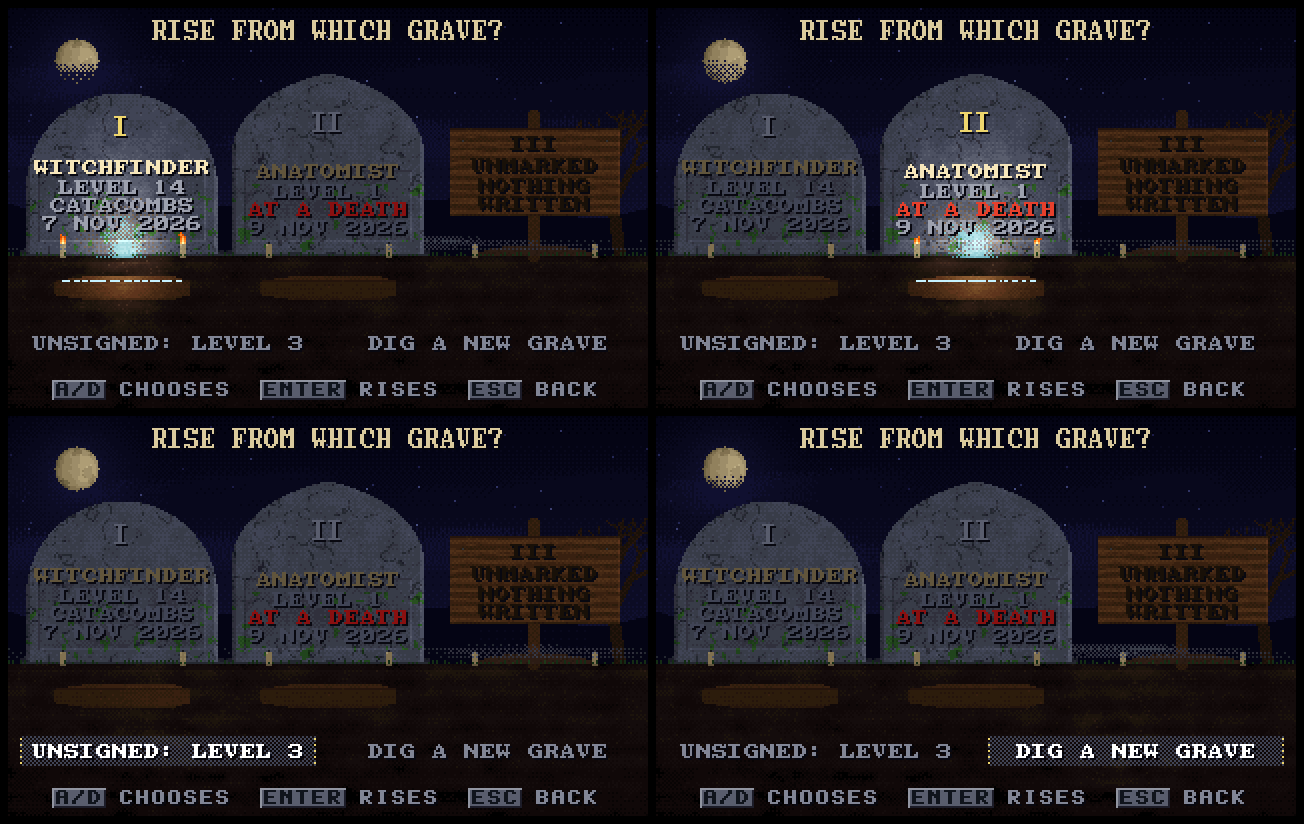
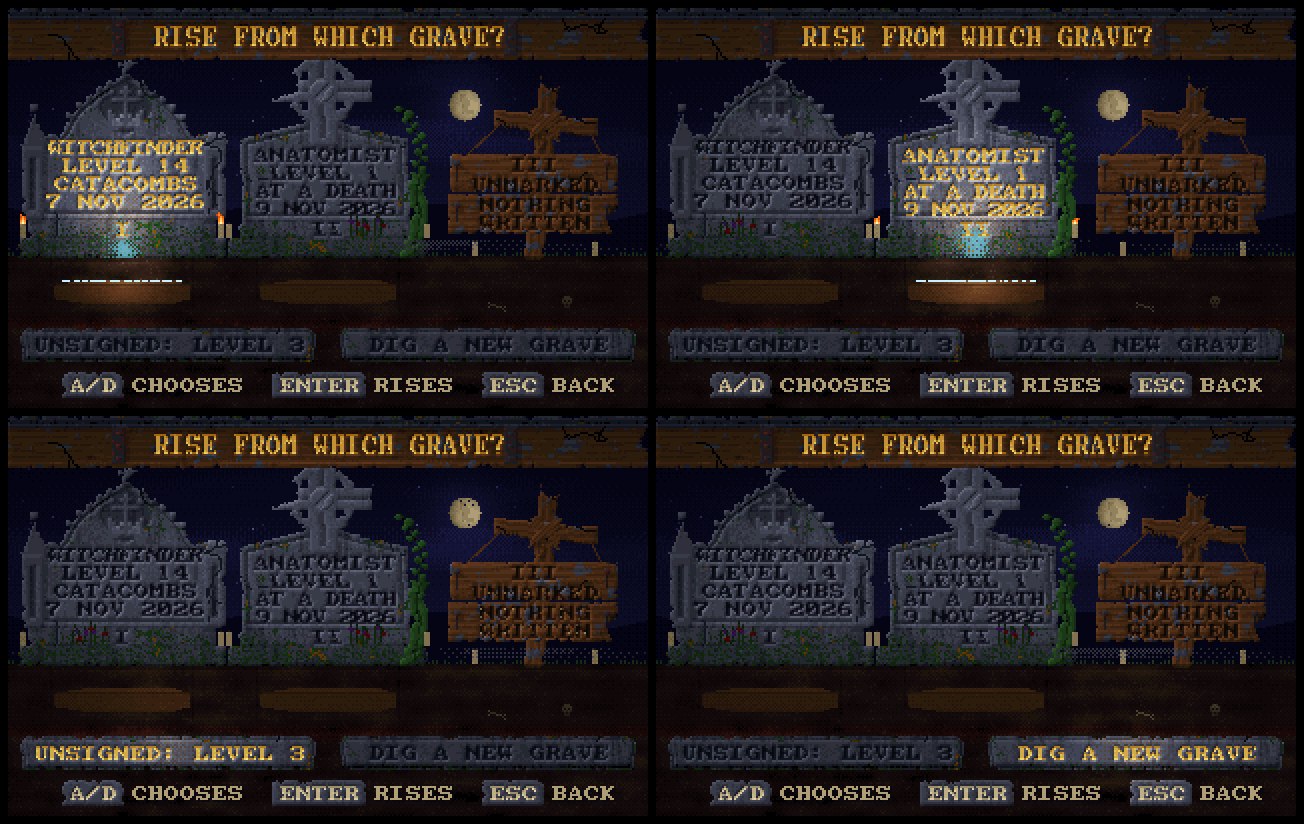
Title mock-ups: C's stone rebuilt, and the refinement pass's stills
C's great stone is built with the kit: a double moulding, a winged death's
head, volutes, a shoulder snapped off with its pieces at its foot, ivy, and
MEMENTO MORI on the plinth. The hand has a torn cuff and its knuckles showing,
and the scene has railings, a mausoleum, fallen leaves, dead flowers and dark
grass in the foreground. docs/titlepass holds the stills from the pass, its
parts sheet and a rewritten README. Steps 7 and 8 of docs/PLAN-title.md.

Claude-Session: https://claude.ai/code/session_015ifzKswxCgherngMdFdFzs

diff --git a/tools/titlemock.c b/tools/titlemock.c
@@ -590,26 +590,6 @@ static void mline(float x0, float y0, float x1, float y1, float w, int ramp, flo
 }
 static void mrect(int x, int y, int w, int h, int ramp, float v, int flags) { for (int j = 0; j < h; j++) for (int i = 0; i < w; i++) matf(x + i, y + j, ramp, v, flags); }
 
-/* a headstone seen from the side of the plot: shape 0 rounded, 1 a cross, 2 pointed, 3 broken; lit from the moon's side */
-static void small_stone(int cx, int base, int w, int h, int shape, float lean, float lit_right, uint32_t seed) {
-    for (int y = base - h; y < base; y++) for (int x = cx - w / 2 - 3; x <= cx + w / 2 + 3; x++) {
-        float fy = (float)(base - y) / h, fx = x - cx - lean * (base - y);
-        int in = 0;
-        float hw = w * 0.5f;
-        if (shape == 0) { float r = hw, top = h - r; in = fabsf(fx) <= hw && ((base - y) <= top || fx * fx + ((base - y) - top) * ((base - y) - top) <= r * r); }
-        else if (shape == 1) { in = (fabsf(fx) <= hw * 0.35f) || (fabsf(fx) <= hw && fy > 0.62f && fy < 0.8f); }
-        else if (shape == 2) { in = fabsf(fx) <= hw * (fy < 0.7f ? 1 : (1 - fy) / 0.3f); }
-        else { in = fabsf(fx) <= hw && fy < 0.75f - 0.35f * (fx / hw + 1) * 0.5f + 0.1f * (h01(x, 0, seed) - 0.5f); }
-        if (!in) continue;
-        float v = 0.34f + 0.16f * fbm(x * 0.3f, y * 0.3f, seed) + lit_right * 0.22f * (fx / hw);
-        int edge_r = 0;
-        if (fx > hw - 1.5f) edge_r = 1;
-        if (edge_r) v += 0.18f * lit_right;
-        if (fx < -hw + 1.2f) v -= 0.12f;
-        int moss = fbm(x * 0.5f, y * 0.5f, seed + 5) > 0.66f && fy < 0.5f;
-        matf(x, y, moss ? R_MOSS : R_STONE, v, 0);
-    }
-}
 
 /* a dead tree: a trunk and its branches, forked again and again */
 static void branch(float x, float y, float ang, float len, float w, int depth, uint32_t seed) {
@@ -1504,61 +1484,7 @@ static float sel_k(float t, int k) {                     /* how chosen k is: com
     if (u < 0 || u > per + 0.35f) return 0;
     return smooth(0, 0.35f, u) * (1 - smooth(per, per + 0.35f, u));
 }
-static void text_c(int cx, int y, const char *s, int col) { ui_text8(&F, cx - (int)strlen(s) * 4, y, s, FACE_INSC, col, TX_INLAID); }
-static void text16_c(int cx, int y, const char *s, int col) { ui_text16(&F, cx - (int)strlen(s) * 4, y, s, FACE_INSC, col, TX_INLAID, 1); }
-static void hints(int y, const char *s) { ui_keys(&F, (W - ui_keys_width(s)) / 2, y, s, R_STONE + 11); }
 
-/* a great headstone: shape 0 round-topped, 1 a pointed gothic arch; a moulded edge, a sunk panel for the words */
-static void big_stone(int cx, int base, int w, int h, int shape, uint32_t seed) {
-    int x0 = cx - w / 2;
-    for (int y = base - h; y < base; y++) for (int x = x0; x < x0 + w; x++) {
-        int i = x - x0, j = y - (base - h);
-        int in;
-        if (shape == 0) { float r = w * 0.5f, cyy = r; in = j >= cyy || ((i - r + 0.5f) * (i - r + 0.5f) + (j - cyy) * (j - cyy) <= r * r); }
-        else {                                                          /* a drop arch: two arcs meeting at a point */
-            float R = w * 0.75f, sq = 0.6f, spring = sqrtf(R * R - (w * 0.25f) * (w * 0.25f)) * sq, px = i + 0.5f, py = j;
-            float d1 = (px - (w - R)) * (px - (w - R)) + (py - spring) * (py - spring) / (sq * sq), d2 = (px - R) * (px - R) + (py - spring) * (py - spring) / (sq * sq);
-            in = j >= spring || (d1 <= R * R && d2 <= R * R);
-        }
-        if (!in) continue;
-        float v = 0.38f + 0.18f * fbm(x * 0.12f, y * 0.12f, seed) + 0.05f * (h01(x, y, seed) - 0.5f);
-        /* the edge: lit on the right (the moon), shadowed left */
-        int e = 0;
-        for (int d = 1; d <= 3 && !e; d++) {
-            int ii = i - d, jj = j;
-            (void)ii; (void)jj;
-            if (x - d < x0 || x + d >= x0 + w) e = d;
-        }
-        if (i < 2) v -= 0.14f; else if (i > w - 3) v += 0.16f;
-        /* the sunk panel */
-        int pj0 = shape == 0 ? (int)(w * 0.42f) : (int)(w * 0.52f), pj1 = h - 8;
-        if (j >= pj0 && j <= pj1 && i >= 6 && i <= w - 7) {
-            if (j == pj0 || i == 6) v -= 0.14f;
-            else if (j == pj1 || i == w - 7) v += 0.1f;
-            else v -= 0.05f;
-        }
-        int moss = fbm(x * 0.25f, y * 0.25f, seed + 9) > 0.68f && j > h * 0.6f;
-        int crack = fabsf(fbm(x * 0.07f, y * 0.07f, seed + 3) - 0.5f) < 0.012f;
-        if (crack) v -= 0.2f;
-        matf(x, y, moss ? R_MOSS : R_STONE, v, 0);
-    }
-    for (int x = x0 - 3; x < x0 + w + 3; x++) for (int y = base - 3; y < base; y++)   /* its foot set in turf */
-        if (x < x0 || x >= x0 + w || y == base - 1) matf(x, y, R_STONE, 0.3f - 0.05f * (base - y), 0);
-}
-static void board(int cx, int G) {                                     /* a post and a board nailed across it, for a plot unmarked */
-    mline((float)cx, (float)G, (float)cx, (float)G - 70, 6, R_WOOD, 0.3f, 0);
-    for (int y = G - 64; y < G - 20; y++) for (int x = cx - 42; x <= cx + 42; x++) {
-        float v = 0.4f + 0.1f * sinf(y * 1.3f + fbm(x * 0.1f, y, 4) * 4) - 0.12f * (y == G - 64 || y == G - 21) + (x == cx + 42 ? 0.1f : 0);
-        matf(x, y, R_WOOD, v, 0);
-    }
-    matf(cx - 36, G - 58, R_IRON, 0.5f, 0); matf(cx + 36, G - 58, R_IRON, 0.5f, 0);
-}
-static void board_words(int cx, int G, float k) {
-    text_c(cx, G - 60, GR[2].num, k > 0.5f ? R_GOLD + 11 : R_WOOD + 1);
-    text_c(cx, G - 49, GR[2].who, k > 0.5f ? R_BONE + 13 : R_WOOD + 1);
-    text_c(cx, G - 39, "NOTHING", k > 0.5f ? R_BONE + 10 : R_WOOD + 1);
-    text_c(cx, G - 30, "WRITTEN", k > 0.5f ? R_BONE + 10 : R_WOOD + 1);
-}
 static void candle(int x, int base, int lit, float t, int seed) {
     mrect(x - 1, base - 7, 3, 7, R_BONE, 0.62f, 0);
     matf(x - 1, base - 7, R_BONE, 0.75f, 0);
@@ -2035,10 +1961,16 @@ static void hand(float gx, int gy, float sc, float rise, float curl, float t, ui
     float lean = -0.18f + 0.06f * sinf(t * 1.3f);
     float wx = gx + sinf(lean) * 40 * sc * rise, wy = gy - cosf(lean) * 40 * sc * rise;
     capsule(gx + 2 * sc, gy + 6, wx, wy, 6.0f * sc, 5.2f * sc, R_WARM, 0.36f * hand_lift, gy, seed);   /* the forearm, rags at the wrist */
-    for (int i = 0; i < 6; i++) {
-        float a = lean - PI / 2 + (i - 2.5f) * 0.32f;
-        float rx = wx + cosf(a + PI) * 4 * sc * 0, ry = wy + 6 * sc;
-        mline(rx + (i - 2.5f) * 2 * sc, ry, rx + (i - 2.5f) * 2.6f * sc + sinf(t * 3 + i) * sc, ry + 7 * sc + h01(i, 0, seed) * 5 * sc, 1.4f * sc, R_FLOOR, 0.3f, 0);
+    {                                                                   /* a cuff of shroud at the wrist, torn, its rags hanging */
+        float cx0 = gx + 2 * sc + (wx - gx - 2 * sc) * 0.62f, cy0 = gy + 6 + (wy - gy - 6) * 0.62f;
+        for (int i = -7; i <= 7; i++) for (int j = -2; j <= 2; j++) {
+            int X = (int)(cx0 + i * sc), Y = (int)(cy0 + j * sc + i * 0.2f);
+            if (Y < gy && abs(i) <= 6) matf(X, Y, R_PURPLE, (0.14f + 0.06f * (j < 0) + 0.04f * (i < 0)) * hand_lift, 0);
+        }
+        for (int i = 0; i < 5; i++) {
+            float x0 = cx0 + (i - 2) * 2.4f * sc, ln = (4 + h01(i, 0, seed) * 7) * sc, sw = sinf(t * 3 + i) * sc;
+            mline(x0, cy0 + 2 * sc, x0 + sw, cy0 + 2 * sc + ln, 1.2f * sc, R_PURPLE, 0.12f * hand_lift, 0);
+        }
     }
     float ux = sinf(lean), uy = -cosf(lean), rx = cosf(lean), ry = sinf(lean);   /* up the hand, and across it */
     float kx = wx + ux * 13 * sc, ky = wy + uy * 13 * sc;               /* the knuckles */
@@ -2062,6 +1994,7 @@ static void hand(float gx, int gy, float sc, float rise, float curl, float t, ui
             x = nx; y = ny;
         }
         matf((int)x, (int)y, R_BONE, 0.75f, 0);                         /* the nail gone, the bone's tip */
+        { float bx0 = kx + rx * BASE[f] * sc, by0 = ky + ry * BASE[f] * sc; if (by0 < gy) { matf((int)bx0, (int)by0, R_BONE, 0.62f * hand_lift, 0); matf((int)bx0 + 1, (int)by0, R_BONE, 0.5f * hand_lift, 0); } }   /* its knuckle through the skin */
         hand_tips[f][0] = x; hand_tips[f][1] = y;
     }
     float tx = wx + ux * 5 * sc + rx * 6 * sc, ty = wy + uy * 5 * sc + ry * 6 * sc, ta = lean + 0.9f - 0.5f * curl;   /* the thumb */
@@ -2089,6 +2022,50 @@ static void leaf(float x, float y, float ph, int col) {               /* an autu
     int w = (int)(1.5f + 1.5f * fabsf(sinf(ph)));
     for (int i = -w; i <= w; i++) matf((int)x + i, (int)y + (i * (sinf(ph * 0.5f) > 0 ? 1 : -1)) / 2, col, 0.55f + 0.1f * (i == 0), MF_FLAT);
 }
+/* the great stone: a round head on a moulded slab, a winged death's head in it, volutes at its shoulders, a plinth with
+ * MEMENTO MORI cut in it; its left shoulder broken off and cracks from the break; ivy up that side. 214 by 150 */
+static const char *const WING[9] = { "........#####", ".....########", "...###########", ".############", "#############",
+                                     "..###########", "....#########", ".......######", ".........####" };
+static void build_great_stone(void) {
+    sc_begin(214, 150);
+    sc_rect(0, 138, 214, 12, 1, 0, SM_STONE, 0);
+    sc_rect(8, 127, 198, 11, 2, 0, SM_STONE, 0.03f);
+    sc_rect(14, 46, 186, 81, 3, 0, SM_STONE, 0.04f);
+    sc_arch(14, 200, 47, 36, 0, 3, 0, SM_STONE, 0.04f);
+    sc_groove(1u << 3, 4); sc_groove(1u << 3, 7);
+    for (int e = 0; e < 2; e++) {                                        /* the volutes at its shoulders */
+        float vx = e ? 199.5f : 14.5f;
+        sc_disc(vx, 50, 7, 4, 1, SM_STONE, 0.06f);
+        sc_ring(vx, 50, 2.5f, 4.2f, 4, 0, SM_STONE, 0.0f);
+    }
+    for (int j = 0; j < 9; j++) for (int i = 0; WING[j][i]; i++) if (WING[j][i] == '#')   /* the wings, feathered */
+        for (int b = 0; b < 4; b++) for (int e = 0; e < 2; e++) {
+            int x = e ? 118 + i * 2 + (b & 1) : 96 - i * 2 - (b & 1), y = 17 + j * 2 + (b >> 1);
+            if (sc_solid(x, y)) { S.ht[y][x] = 1; S.dv[y][x] = 0.16f; S.f[y][x] |= SF_CALM; if ((i + j / 2) % 3 == 0 && j > 1 && i > 2) { S.ht[y][x] = 0; S.dv[y][x] = -0.08f; } }
+        }
+    for (int y = 12; y < 42; y++) for (int x = 94; x < 120; x++) if (sc_solid(x, y) && (x - 107) * (x - 107) / 169.0f + (y - 26) * (y - 26) / 225.0f < 1) S.ht[y][x] = -1;   /* the skull's sunk field */
+    sc_mark(107 - 11, 15, KEY_SKULL, 11, 2, 1, 0.1f);
+    for (int y = 12; y < 42; y++) for (int x = 94; x < 120; x++) if (sc_solid(x, y) && S.ht[y][x] == 1 && x > 95 && x < 119) S.dv[y][x] += 0.14f;
+    for (int y = 46; y < 124; y++) for (int x = 20; x < 194; x++) if (sc_solid(x, y) && S.ht[y][x] == 0) S.f[y][x] |= SF_CALM;   /* quiet where the name is cut */
+    sc_text_c(107, 129, "MEMENTO MORI", 0, 0, 77, 190);
+    sc_break(10, 46, 13, 81);                                            /* the left shoulder, gone */
+    sc_crack(22, 52, 0.5f, 60, 82, 2);
+    sc_crack(30, 40, -0.4f, 30, 83, 1);
+    sc_crack(190, 127, -2.0f, 30, 84, 1);
+    sc_crack(150, 138, -1.4f, 12, 85, 0);
+    sc_chips(0.3f, 86);
+    sc_ivy(6, 149, 90, 87); sc_ivy(12, 149, 60, 88); sc_ivy(200, 149, 30, 89);
+}
+static void grass_fg(float t) {                                         /* dark blades in the foreground's corners, stirring */
+    for (int k = 0; k < 60; k++) {
+        int side = k % 2;
+        float x = side ? W - 2 - h01(k, 0, 92) * 90 : 2 + h01(k, 0, 92) * 90;
+        float hgt = 10 + h01(k, 1, 92) * 22 * (1 - fabsf((side ? W - x : x)) / 110.0f), sw = sinf(2 * PI * t / LOOP * 2 + k * 0.7f) * 2 + (side ? -2 : 2);
+        if (hgt < 6) continue;
+        mline(x, (float)H, x + sw * 0.4f, H - hgt * 0.6f, 1.6f, R_MOSS, 0.03f, MF_FLAT | MF_NOWARM);
+        mline(x + sw * 0.4f, H - hgt * 0.6f, x + sw, H - hgt, 1, R_MOSS, 0.04f, MF_FLAT | MF_NOWARM);
+    }
+}
 static void scene_c(float t) {
     float flash = flash_k(t, LOOP * 0.62f);
     const int G = 160;
@@ -2096,8 +2073,7 @@ static void scene_c(float t) {
     pal_flash(flash * 0.5f);
     light_clear(0.62f + 0.4f * flash, 0);
     sky(0, G, t, 46, 34, 16, flash);
-    /* the far graveyard, flat against the hills */
-    for (int x = 0; x < W; x++) {
+    for (int x = 0; x < W; x++) {                                      /* the far graveyard, flat against the hills */
         float hy = 128 + 5 * sinf(x * 0.03f + 2) + 2 * fbm(x * 0.06f, 0, 18);
         for (int y = (int)hy; y < G; y++) matf(x, y, R_CEIL, 0.1f, MF_NOWARM);
     }
@@ -2109,57 +2085,33 @@ static void scene_c(float t) {
             if (in) matf(x + dx, y, R_CEIL, 0.04f, MF_NOWARM);
         }
     }
+    for (int x = 272; x < 318; x++) for (int y = 108; y < G - 4; y++) {   /* a mausoleum, flat against the hills */
+        int ped = y < 118 && y >= 118 - (23 - abs(x - 295)) / 2;
+        if ((y >= 118 || ped) && !(y >= 128 && x > 290 && x < 300)) matf(x, y, R_CEIL, 0.05f + 0.02f * (y == 118), MF_NOWARM);
+    }
+    for (int x = 0; x < 64; x += 3) { mrect(x, G - 22, 1, 14, R_CEIL, 0.04f, MF_NOWARM); matf(x, G - 23, R_CEIL, 0.04f, MF_NOWARM); }   /* the railings */
+    mrect(0, G - 19, 64, 1, R_CEIL, 0.04f, MF_NOWARM);
     branch(24, G, 1.45f, 34, 7, 6, 31);
     branch(24, G - 24, 0.6f, 18, 3.5f, 4, 37);
-    /* the ground */
-    for (int y = G - 6; y < H; y++) for (int x = 0; x < W; x++) {
+    for (int y = G - 6; y < H; y++) for (int x = 0; x < W; x++) {      /* the ground */
         float n = fbm(x * 0.04f, y * 0.08f, 51);
-        float v = 0.16f + 0.1f * n + 0.04f * (y - G) / 40.0f + 0.04f * (h01(x, y, 52) - 0.5f);
+        float v = 0.16f + 0.1f * n + 0.04f * (y - G) / 40.0f + 0.04f * (h01(x, y, 52) - 0.5f) + 0.03f * (((x + y / 3) % 4) == 0);
         if (y < G) { if (h01(x, 0, 3) * 6 < G - y) continue; matf(x, y, R_MOSS, 0.12f + 0.04f * (G - y), 0); continue; }
         matf(x, y, n > 0.68f ? R_FLOOR : R_MOSS, n > 0.68f ? v + 0.04f : v, 0);
     }
-    /* the stone: a great round-headed slab, a skull carved in its head */
-    const int SW = 210, SH = 132, SX = W / 2 - SW / 2, SB = G + 2;
-    for (int y = SB - SH; y < SB; y++) for (int x = SX; x < SX + SW; x++) {
-        int i = x - SX, j = y - (SB - SH);
-        float r = SW * 0.5f;
-        float ey = 34;                                                   /* its head: a flattened half-round */
-        int in = j >= ey || ((i - r + 0.5f) * (i - r + 0.5f) / (r * r) + (j - ey) * (j - ey) / (ey * ey) <= 1);
-        if (!in) continue;
-        float v = 0.3f + 0.18f * fbm(x * 0.07f, y * 0.07f, 101) + 0.05f * (h01(x, y, 102) - 0.5f);
-        int edge = 0;
-        for (int d = 1; d <= 3 && !edge; d++) {
-            int ii = i - d, jj = j - d;
-            int up = jj >= ey || ((ii - r + 0.5f) * 0 + 1) ? 0 : 0; (void)up;
-            float e1 = (i - d - r + 0.5f), e2 = (i + d - r + 0.5f);
-            int o1 = !(j >= ey || (e1 * e1 / (r * r) + (j - ey) * (j - ey) / (ey * ey) <= 1)) || i - d < 0;
-            int o2 = !(j >= ey || (e2 * e2 / (r * r) + (j - ey) * (j - ey) / (ey * ey) <= 1)) || i + d >= SW;
-            int o3 = jj < 0 || !(jj >= ey || ((i - r + 0.5f) * (i - r + 0.5f) / (r * r) + (jj - ey) * (jj - ey) / (ey * ey) <= 1));
-            if (o1 || o3) edge = d; else if (o2) edge = -d;
-        }
-        if (edge > 0) v += edge == 1 ? 0.2f : 0.1f;
-        else if (edge < 0) v -= edge == -1 ? 0.18f : 0.08f;
-        if (fabsf(fbm(x * 0.04f, y * 0.04f, 103) - 0.5f) < 0.008f) v -= 0.22f;   /* cracks */
-        int moss = fbm(x * 0.2f, y * 0.2f, 104) > 0.66f && (j > SH - 30 || i < 14 || i > SW - 14);
-        if (j >= SH - 3) v -= 0.1f;
-        matf(x, y, moss ? R_MOSS : R_STONE, moss ? v * 0.7f : v, 0);
+    for (int i = 0; i < 26; i++) {                                     /* fallen leaves on the ground */
+        float lx = h01(i, 1, 46) * W, ly = G + 4 + h01(i, 2, 46) * 34;
+        static const int LCOL[3] = { R_BRICK, R_WOOD, R_GOLD };
+        mrect((int)lx, (int)ly, 2 + (i % 2), 1, LCOL[i % 3], 0.3f, 0);
     }
-    /* the skull carved in its head, sunk and shadowed */
-    {
-        static const char *const SK[] = {
-            "....#######....", "..###########..", ".#############.", "###############", "###...###...###", "##.....#.....##",
-            "##....###....##", "###..##.##..###", ".######.######.", "..####...####..", "...#.#.#.#.#...", "...#########...", "....#.#.#.#...." };
-        int kx = W / 2 - 15, ky = SB - SH + 9;
-        for (int j = 0; j < 13; j++) for (int i = 0; i < 15; i++) for (int b = 0; b < 4; b++) {
-            int x = kx + i * 2 + (b & 1), y = ky + j * 2 + (b >> 1);
-            if (SK[j][i] == '#') {
-                int lit = j > 0 && SK[j - 1][i] != '#' ? -1 : (j < 12 && SK[j + 1][i] != '#') ? 1 : 0;
-                MV[y][x] = clampf(MV[y][x] - 0.06f + 0.08f * lit, 0, 1);
-            } else if ((j > 0 && SK[j - 1][i] == '#') || (i > 0 && SK[j][i - 1] == '#')) MV[y][x] = 0.12f;   /* the hollows: the eyes, the nose */
-        }
-    }
-    /* the mound before it, and the hand out of it */
-    for (int x = 200; x < 320; x++) {
+    const int SB = G + 2;
+    build_great_stone();
+    sc_shade(0.36f, 101, 0, R_GOLD);
+    sc_draw(W / 2, SB, 0);
+    build_fragment(18, 10, 120); sc_shade(0.36f, 121, 0, R_GOLD); sc_draw(W / 2 - 112, SB + 1, -24);
+    build_fragment(10, 6, 122); sc_shade(0.36f, 123, 0, R_GOLD); sc_draw(W / 2 - 96, SB + 3, 12);
+    dead_flowers(W / 2 + 70, SB, 124);
+    for (int x = 200; x < 320; x++) {                                   /* the mound before it, and the hand out of it */
         int mh = (int)(9 * sqrtf(fmaxf(0, 1 - powf((x - 284) / 60.0f, 2))));
         for (int y = G + 14 - mh; y < G + 16; y++) matf(x, y, R_FLOOR, 0.3f + 0.14f * fbm(x * 0.3f, y * 0.3f, 7) + 0.1f * (y == G + 14 - mh), 0);
     }
@@ -2172,15 +2124,15 @@ static void scene_c(float t) {
         float a = i / 9.0f * PI;
         mline(HX - cosf(a) * 7, G + 12.0f - sinf(a) * 2, HX - cosf(a) * (14 + 6 * h01(i, 1, 2)), G + 12.0f - sinf(a) * 3, 1, R_FLOOR, 0.08f, 0);
     }
-    /* candles at the stone's foot */
-    static const int CA[6] = { 62, 70, 78, 242, 250, 258 }, CH[6] = { 0, 3, 1, 2, 0, 3 };
-    for (int i = 0; i < 6; i++) { mrect(CA[i] - 1, G + 2 - 9 - CH[i], 3, 9 + CH[i], R_BONE, 0.6f, 0); matf(CA[i] - 1, G + 2 - 9 - CH[i], R_BONE, 0.75f, 0); }
-    /* light: the moon, the candles' warmth on the stone's foot */
+    static const int CA[6] = { 62, 70, 78, 242, 250, 258 }, CH[6] = { 0, 3, 1, 2, 0, 3 };   /* candles at the stone's foot */
+    for (int i = 0; i < 6; i++) {
+        mrect(CA[i] - 1, G + 4 - 9 - CH[i], 3, 9 + CH[i], R_BONE, 0.6f, 0); matf(CA[i] - 1, G + 4 - 9 - CH[i], R_BONE, 0.75f, 0);
+        matf(CA[i] + 1, G + 4 - 6 - CH[i], R_BONE, 0.7f, 0); matf(CA[i] + 1, G + 4 - 5 - CH[i], R_BONE, 0.7f, 0);   /* wax run down */
+    }
     for (int y = 0; y < H; y++) for (int x = 0; x < W; x++) if (y > G) LC[y][x] *= 0.75f;
     for (int i = 0; i < 6; i += 2) { float fl = flick(t, i); light_add(CA[i] + 8, G - 8, 110 * fl, 0.75f, 1); }
     for (int i = 3; i < 6; i += 2) { float fl = flick(t, i); light_add(CA[i] - 8, G - 8, 110 * fl, 0.75f, 1); }
-    /* the leaves, the bats */
-    for (int i = 0; i < 7; i++) {
+    for (int i = 0; i < 7; i++) {                                       /* the leaves, the bats */
         float lu = frac(t / LOOP * (1 + i % 2) + h01(i, 1, 44));
         float lx = W + 8 - lu * (W + 16), ly = 20 + h01(i, 2, 44) * 120 + lu * 30 + 6 * sinf(lu * 12 + i);
         static const int LC_[3] = { R_BRICK, R_WOOD, R_GOLD };
@@ -2188,11 +2140,12 @@ static void scene_c(float t) {
     }
     { float bu = frac(t / LOOP + 0.2f); bat(W + 10 - bu * (W + 30), 24 + 10 * sinf(bu * 8), t * 26); }
     fog(G - 16, G + 6, t, 1.2f, 35);
+    grass_fg(t);
+    vignette(0.35f);
+    for (int i = 0; i < 6; i++) flame(CA[i], G + 4 - 10 - CH[i], 6, t, i);
     logo_build("HAUNTED", 0.8f, ".EXE", 0.76f, 0, 31);
-    logo_draw((W - LG.w) / 2, SB - SH + 40, LS_CARVED, 1.0f + 0.2f * flash, G + 1, t);
+    logo_draw((W - LG.w) / 2, SB - 150 + 50, LS_CARVED, 1.0f + 0.2f * flash, G + 1, t);
     resolve();
-    for (int i = 0; i < 6; i++) flame(CA[i], G + 2 - 10 - CH[i], 6, t, i);
-    for (int y = 0; y < H; y++) for (int x = 0; x < W; x++) if (MF[y][x] & MF_DIRECT) F.pix[y * W + x] = MD[y][x];
     prompt(W / 2, 186, "PRESS ANY BUTTON", 1, t, R_BONE);
 }
 

diff --git a/docs/titlepass/README.md b/docs/titlepass/README.md
@@ -1,6 +1,8 @@
 # A title screen for CATACOMB: mock-ups
 
-Mock-ups only (9 November 2026): nothing here is in the game, and the game's code is untouched. Asked for by the owner:
+Mock-ups only (9 November 2026): nothing here is in the game, and the game's code is untouched. The plan and its
+hand-off log are in [`docs/PLAN-title.md`](../PLAN-title.md). The owner kept all three, to come round in turn at each
+start, and asked for a refinement pass. These stills are from after it. Asked for by the owner:
 a title screen that comes up when a person holds H (or a button) to enter the crypts, the name in a gothic, bloody hand,
 "press a button", then the graves to choose from. The owner already has the music.
 
@@ -19,6 +21,8 @@ build/titlemock <dir> flash          # the lightning's frames, to check them
 
 - `overview.png`: a still of each of the six.
 - `logo.png`: the name, in blood and cut in stone, on one line and stacked.
+- `parts.png`: the built pieces of the grave screens alone, three times size: the stele, the wheel-cross, the timber cross
+  and its board, a kerb, a broken piece, the rows' slabs and the worn key caps.
 - `A_beneath.png` ... `C_graves.png`: four stills from each loop.
 
 ## The name
@@ -31,7 +35,39 @@ a little smaller. There are two treatments:
 - **Cut in stone**: incised letters, their walls in shadow and blood in the cuts, the stone's lip lit under them. The drips
   run down the stone.
 
-## The three
+## The refinement pass
+
+The owner's notes on the first mock-ups were that the graves and the plots' markers looked like two shapes, and wanted
+chips, cracks and destruction. So the graves are now built of parts in a small sculpt kit in the tool: each part has a
+height, and gets bevels, cast shadows, seams, grooves and relief from it. Then come breaks (the new edge pale), cracks with
+a lit lip, chips along every edge, ivy, lichen yellow at its heart, water stains from the top and damp from the foot. Wood
+and iron are materials too. Words are cut deep and fill with gold leaf, a little at a time, while their grave is chosen.
+The pieces:
+- **I**, a gothic stele: a stepped plinth, pinnacles with finials, a steep gable with crockets and a cross on top, a
+  moulded border, the Witchfinder's mark in relief in a sunk quatrefoil. One shoulder and its pinnacle are snapped off and
+  lie at its foot, and cracks run from the break.
+- **II**, a wheel-cross on a gabled slab: the ring broken away on one side, a crack across the slab, ivy climbing it, the
+  Anatomist's mark on the boss.
+- **III**, the empty plot: a rough timber cross lashed with rope, its top split, a board of two planks hung from its arms on
+  cords, nails rusting down it.
+- C's plots have kerbs with a finial gone. B's loculi are slabs on iron cramps under arches of voussoirs with a skull for
+  each keystone, and the empty niche's slab lies fallen in two pieces.
+- The screens' title is cut into a lych-gate's beam out of doors (A, C) and into a tablet set in the wall indoors (B). The
+  extra rows are chipped slabs, and the hints are worn stone caps.
+
+The titles were given more detail too:
+- **A** has built small stones (leaning, snapped, gone over, an angel among them), one lit window in the church, a crow
+  that moves, the earth in bands (topsoil and roots, clay, gravel, the rock over the vault) with a burst coffin and its
+  skeleton, the crypt's arches in voussoirs with capitals, a sarcophagus and chains, and the walker with a staff, a rope
+  belt and a ragged hem, throwing a big shadow on the vault's wall.
+- **B** has the game's own props in the hall at their depth (bone heaps, candles, a skull stack, the occupied gibbet, chains,
+  roots), a spectre crossing at the edge of the fog, and the arch built block by block with a skull on its keystone, roots
+  and cobwebs in the opening, ivy up the piers and candles on the worn step.
+- **C** has the great stone rebuilt: a double moulding, a winged death's head, volutes, one shoulder snapped off, ivy, and
+  MEMENTO MORI on the plinth. The hand has a torn shroud cuff and its knuckles' bones showing. There are railings and a
+  mausoleum behind, leaves on the ground, dead flowers, and dark grass in the foreground.
+
+## The three, as first drawn
 
 - **A, BENEATH.** A graveyard in cross-section under a rising moon: hills, a church, a dead tree, a mausoleum, fog. Under it
   are the earth's strata, roots, stones, loose bones and three coffins, and under those a buried crypt of arches. A walker

diff --git a/docs/PLAN-title.md b/docs/PLAN-title.md
@@ -1,6 +1,6 @@
 # The title screen: plan and hand-off
 
-Status (9 November 2026): **the first mock-ups are done; the refinement pass is under way: steps 1-6 done, step 7 next.** Nothing in the
+Status (9 November 2026): **the first mock-ups are done; the refinement pass is under way: steps 1-8 done; the GIFs sent to the owner for a look.** Nothing in the
 game is changed yet. Everything here is mock-ups drawn by `tools/titlemock.c`, outside the game.
 
 Read the hand-off log (section 6) first. It says where the last session stopped.
@@ -119,10 +119,13 @@ Mark each step as it lands (**done**, with the date), and add a line to the log 
 7. **C's title, the detail pass.** The great stone rebuilt with the kit: a moulded border, a winged death's head in its
    head, a broken shoulder with pieces at its foot, cracks, lichen and water stains, MEMENTO MORI cut under the name. The hand
    with its knuckles' bones showing and a torn cuff. Dark grass in the foreground, wilted flowers, a fence and a mausoleum
-   behind. A vignette.
+   behind. A vignette. **Done** (9 November): `build_great_stone` (a double moulding, a winged death's head from `WING` and
+   `KEY_SKULL`, volutes, the left shoulder broken off and its pieces at the foot, MEMENTO MORI on the plinth), `grass_fg`,
+   the hand's shroud cuff and knuckles (`hand_lift` brightens it where it is small).
 8. **Checks and hand-over.** Render everything. Look at each still: the words readable, nothing over the name, the loops
    clean. Update `docs/titlepass/` (stills, overview, logo, README), commit and push, and send the GIFs to the owner with
-   short notes.
+   short notes. **Done** (9 November): the stills, `overview.png`, `logo.png` and `parts.png` in `docs/titlepass/`, and its
+   README rewritten for this pass. The GIFs (about 20 MB doubled) went to the owner, not into git.
 9. **Later, not this pass: into the game.** Its own plan: a title scene between the screensaver and play, the rotation,
    the music hook, the graves read from the ledger (`page_info`), and the questions below. It wants the owner's answers
    first.
@@ -142,3 +145,7 @@ Mark each step as it lands (**done**, with the date), and add a line to the log 
 - **9 November, session 1, later.** Steps 2-4 done and pushed: the sculpt kit, the weathered UI, the graves rebuilt in all
   three. Next is step 5 (A's title). Iterate with `build/titlemock <dir> s <A|Ag|B|Bg|C|Cg> <seconds>`, which writes one
   still doubled as `s_<name>_<t>.png`, and look at it before rendering the GIFs (about 30 s for all of them).
+- **9 November, session 1, end.** Steps 5-8 done and pushed. All six sent to the owner. Waiting on their look at the
+  refinement and on the questions in section 5. The next work is whatever they say about this pass, then step 9 (into the
+  game), which wants its own plan and the owner's answers first. Known small things: in C's graves the hand rising from
+  grave I covers part of its plinth's numeral, and PLAGUE DOCTOR is untried on a stone.
